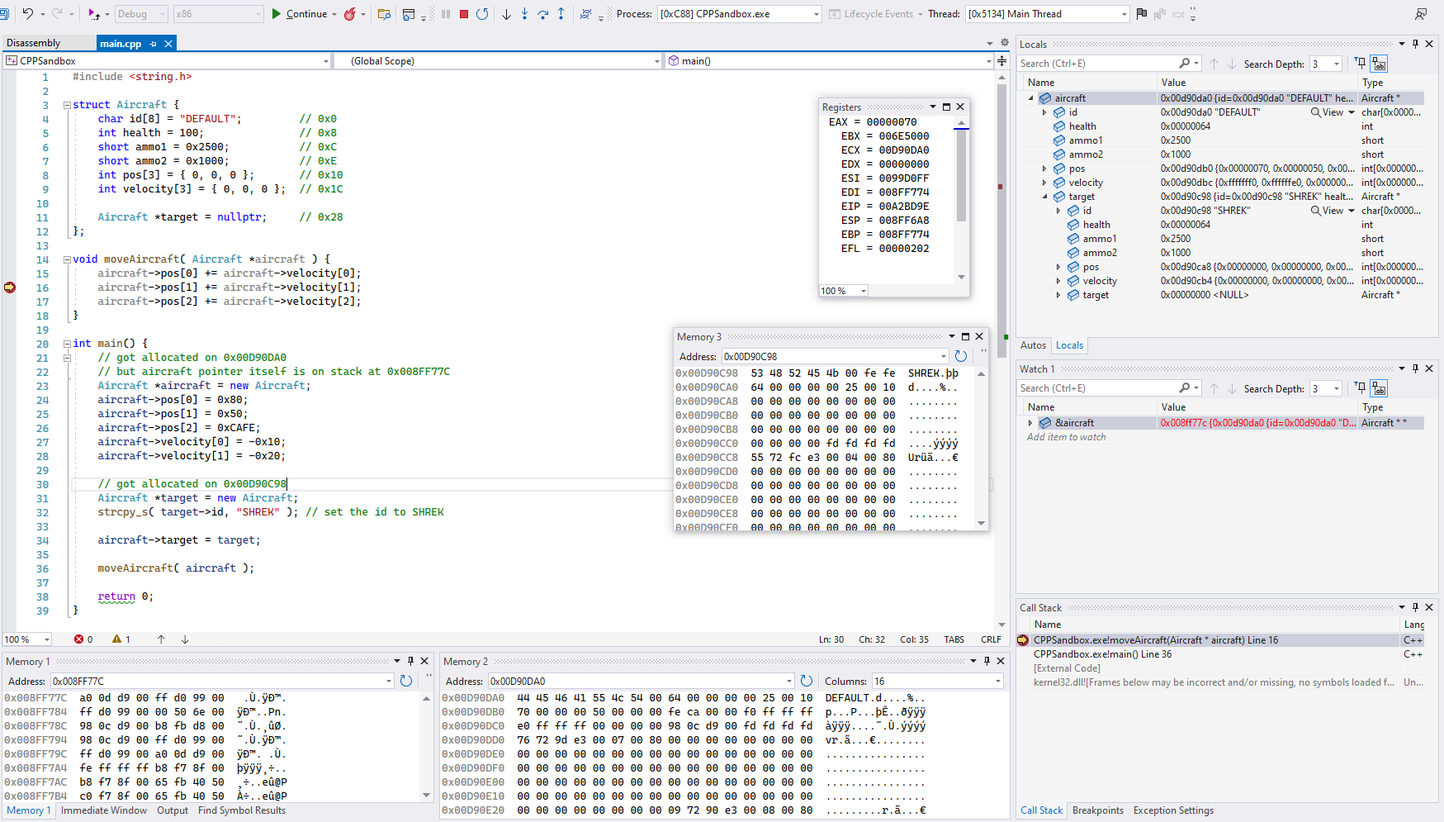
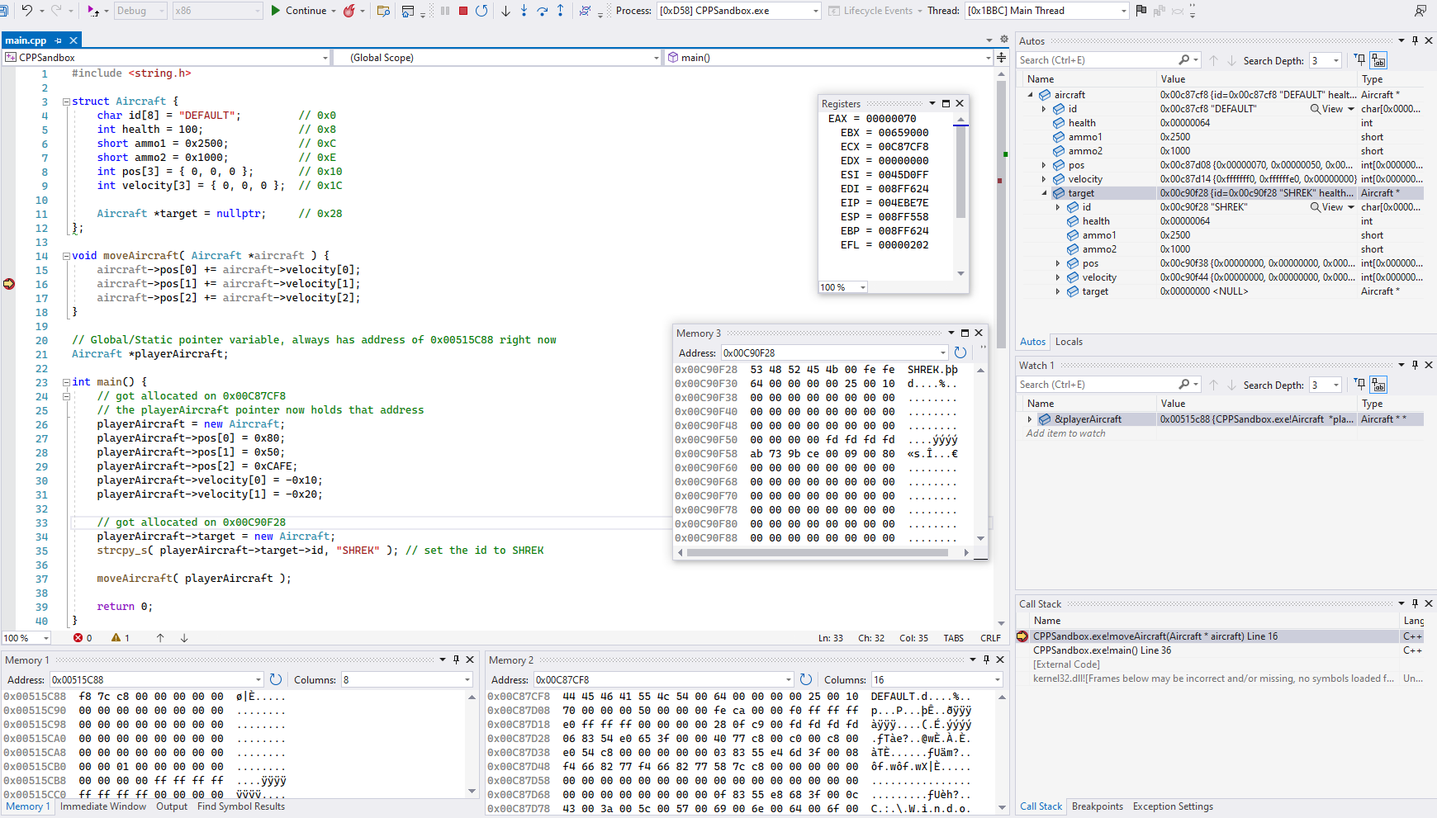
update tracking-down-playstation-pointers-using-debuggers-ghidra
Add Array example
Add Linked List example
Some editing, fixed typos

Changed region(s): [[0.0, 0.0, 1.0, 0.999], [0.5586, 0.333, 0.6207, 0.3633]]

diff --git a/frontend/notes/2024-03-05_tracking-down-playstation-pointers-using-debuggers-ghidra/_advanced_achievements.md b/frontend/notes/2024-03-05_tracking-down-playstation-pointers-using-debuggers-ghidra/_advanced_achievements.md
@@ -35,14 +35,14 @@ If you feel like it, check out this video: [Learn Reverse Engineering (for hacki
 
 ## **The path of least resistance**
 
-This section is mostly a reminder on how one could *atleast try* dealing with pointers without learning the complex stuff, in RAIntegration:
+This section is mostly a reminder on how one could *at least try* dealing with pointers without learning the complex stuff, in RAIntegration:
 
 1. Find the address of the value, write it down, make Save State 1
 2. Restart the game, or start at different level - whatever that will make the value appear at different address. Find the address of the value, write it down, make Save State 2
 3. Calculate the difference between the addresses. For example: if Save State 1 had value at `0x1717D8` and Save State 2 had value at `0x178CA4`, the difference is `0x178CA4 - 0x1717D8 = 0x74CC`
 4. Load Save State 1, make a new search for 32-bit (Aligned) values (my example is PSX so it takes that much)
 5. Load Save State 2, then do filter either by Last Value Plus or Last Value Minus, in my case I will have to go by `0x74CC` for Last Value Plus
-6. You get several candidates, one of them might be the pointer you seek, good luck
+6. You're likely to get several candidates, one of them might be the pointer you seek, good luck
     * If you had Save State 3 with 3rd address, it could further help to lower amount of candidates. In my case some addresses also flickered and I could get rid of them
     * I also recommend you pick addresses that result in lowest possible offsets
 
@@ -90,7 +90,7 @@ It doesn't matter much if you choose C or C++ here. I recommend these because yo
   * Understand that everything you have seen in Memory Inspector, any data at any address can be *interpreted* as those data types
   * Optional: learn bitwise operators and bitmasks if you encountered them when making achievements. If you ever had to make conditions that target Bit0, Bit1 and so on - those likely were part of bitmask. Reminder that this also requires understanding binary [[1]](https://www.programiz.com/c-programming/bitwise-operators) [[2]](https://www.learn-c.org/en/Bitmasks)
 * Learn basic control flow: conditional *if statements* and logical operators (AND/OR/NOT)
-* Learn loops: *for loop*, *while loop*
+* Learn loops: *for loop*, *while loop*, *do while loop*
 * Learn to define your own functions so the code can be reused
 * Learn what variable scope is: how it can be scoped locally to a function, locally to `{}` blocks, or scoped globally
 
@@ -163,18 +163,17 @@ I recommend you open the screenshot below in separate window so you can follow a
 
 I have put a breakpoint on line 16 and then ran the debugger, now I can go over small details:
 
-* Look at the line 23 that allocated a struct on the heap, if I look at the Locals window on top right, or hold the mouse over `aircraft` pointer, it shows me that it got allocated on heap at `0x00D90DA0`
-  * But commentary above also says that pointer itself is located on stack, I can easily check it's location on stack by adding `&aircraft` into the Watch window on middle right, which reveals address `0x008FF77C`
-  * Notice that this address is near tip of the stack, which is indicated by ESP register (CPU registers will be covered later, just note that it's indeed on stack)
-  * Notice that I can visit this address in one of the memory windows (Memory 1 on bottom left, similar to Memory Inspector), and the stored 4 bytes at that address represent `0x00D90DA0`, it's stored backwards, in little-endian, which is something you also might have noticed during *RAM digging*. In Visual Studio, those memory windows can be accessed in menu: Debug -> Windows -> Memory
-  * This example runs on Windows and I guess that's the reason why stack segment happens to be on lower address range compared to heap, which does not match [the diagram](https://static.javatpoint.com/cpages/images/memory-layout-in-c.png) you've seen before
-* Now I can follow `0x00D90DA0` in a different memory window (Memory 2) and start comparing what I see there with struct definition and what's shown in the Locals window
-  * Notice that values do match the default values of struct and also what I specified on lines 24-28, with the exception of pos[0] which was already modified by line 15
-  * Take note of pointer at `0x00D90DA0 + 0x28`, it was attached on line 34. This is pointer to the pointer situation. I can also follow that address: `0x00D90C98` in yet another memory window (Memory 3), and data found there also matches what Locals window show
+* Look at line 21 that defined a global pointer that would hold player's aircraft data. This is something that you'd be hunting for to define good pointer chains for achievements, because address of this pointer itself never changes
+  * I can check it's memory address by adding `&playerAircraft` into the Watch window on middle right, which reveals address `0x00515C88`
+  * Notice that restarting the program results in same address shown for `&playerAircraft`, which is expected for such global variable. It will likely change only if you recompile the program
+  * Notice that I can visit this address in one of the memory windows (Memory 1 on bottom left, similar to Memory Inspector), and the stored 4 bytes at that address represent `0x00C87CF8`. It's stored backwards, in little-endian, which is something you also might have noticed during *RAM digging*. In Visual Studio, those memory windows can be accessed in menu: Debug -> Windows -> Memory
+* Now I can follow `0x00C87CF8` in a different memory window (Memory 2) and start comparing what I see there with struct definition and what's shown in the Locals window
+  * Notice that values do match the default values of struct and also what I specified on lines 27-31, with the exception of pos[0] which was already modified by line 15
+  * Take note of pointer at `0x00C87CF8 + 0x28`, it was attached on line 34. This is pointer to the pointer situation. I can also follow that address: `0x00C90F28` in yet another memory window (Memory 3), and data found there also matches what Locals window show
 * <span id="negative-offset-remark">Notice that all offsets for the struct are positive, and regular programmers deal with such structs all the time, all with positive offsets. This is to explain why one shouldn't rely on negative offsets in the achievement code - it's merely something lucky that can work instead of being perfect solution that matches the original program</span>
 * If I press Step Over button, line 16 will get executed and debugger stops at line 17, the changes to pos[1] value will be seen in Locals and Memory 2 windows
-* If I were to press Step Out button on the toolbar at the top, remainder of moveAircraft function will be executed and debugger will stop at line 36 after executing the function, the changes to aircraft->pos will be seen in Locals and Memory 2 windows
-* To practice usage of Step In button on the toolbar at the top, I could put a breakpoint on Line 36, and check what happens when using Step In button compared to Step Over
+* If I were to press Step Out button on the toolbar at the top, remainder of moveAircraft function will be executed and debugger will stop at line 37 after executing the function, the changes to aircraft->pos will be seen in Locals and Memory 2 windows
+* To practice usage of Step In button on the toolbar at the top, I could put a breakpoint on Line 37, and check what happens when using Step In button compared to Step Over
 
 Here's the original code that you can copy paste if you wish:
 
@@ -198,20 +197,24 @@ void moveAircraft( Aircraft *aircraft ) {
   aircraft->pos[2] += aircraft->velocity[2];
 }
 
+
+Aircraft *playerAircraft;
+
 int main() {
-  Aircraft *aircraft = new Aircraft;
-  aircraft->pos[0] = 0x80;
-  aircraft->pos[1] = 0x50;
-  aircraft->pos[2] = 0xCAFE;
-  aircraft->velocity[0] = -0x10;
-  aircraft->velocity[1] = -0x20;
 
-  Aircraft *target = new Aircraft;
-  strcpy_s( target->id, "SHREK" ); // set the id to SHREK
 
-  aircraft->target = target;
+	playerAircraft = new Aircraft;
+	playerAircraft->pos[0] = 0x80;
+	playerAircraft->pos[1] = 0x50;
+	playerAircraft->pos[2] = 0xCAFE;
+	playerAircraft->velocity[0] = -0x10;
+	playerAircraft->velocity[1] = -0x20;
 
-  moveAircraft( aircraft );
+
+	playerAircraft->target = new Aircraft;
+	strcpy_s( playerAircraft->target->id, "SHREK" ); // set the id to SHREK
+
+	moveAircraft( playerAircraft );
 
   return 0;
 }
@@ -229,7 +232,7 @@ I already mentioned that machine code will be executed by CPU *it was compiled f
 
 The consoles you're developing achievements for may have rather distinct architectures. This blogpost has examples for Playstation consoles: PSX, PS2 and PSP, which at their core are [MIPS](https://en.wikipedia.org/wiki/MIPS_architecture).
 
-Even if disassembly output is more human-readable, it certainly isn't compared to C, atleast until you get used to actually reading it. What could be one line of C++ code may explode into several very trivial lines of assembly language. Countless amount of lines that do very trivial things, such as:
+Even if disassembly output is more human-readable, it certainly isn't compared to C, at least until you get used to actually reading it. What could be one line of C++ code may explode into several very trivial lines of assembly language. Countless amount of lines that do very trivial things, such as:
 
 * Read the RAM at specified address, store result in specified CPU register
 * Read values in CPU registers, do something like math, write the result into CPU register
@@ -295,7 +298,7 @@ Pointer [32-bit]
 ### **Debugger usage**
 
 1. Install [PCSX-Redux](https://github.com/grumpycoders/pcsx-redux) emulator, [Windows x64 builds are here](https://install.appcenter.ms/orgs/grumpycoders/apps/pcsx-redux-win64/distribution_groups/public)
-    * This emulator can be confusing compared to what most other people use for regular play, so instructions also inclde loading and running the game
+    * This emulator can be confusing compared to what most other people use for regular play, so instructions also include loading and running the game
     * Other choices of PSX emulators with debugger support are [no$psx](https://problemkaputt.de/psx.htm) which I found less intuitive. [pSX 1.13](https://www.emulator-zone.com/doc.php/psx/psx_em.html) also known as psxfin has debugger with terrible UI, [here's forum thread with it's usage](https://www.zophar.net/forums/index.php?threads/tutorial-using-a-debugger-to-figure-out-game-mechanics.13521/). There's [PCSX with Debugger](https://www.romhacking.net/utilities/267/). [Duckstation](https://www.duckstation.org/) has debugger in it, but at the moment of writing it's barebones and not recommended, hope it will become good eventually so you could run it together with RAIntegration
     * For some reason I had latest versions with GLFW integration [crash with this message](./pcsx-debugger/pcsx-redux-error.png), I understand the error but not why it happens. **Running with administrator rights** made it work, some time later running it without admin rights also didn't cause crash, I don't know why. It also still crashes when opening emulator settings without admin rights
 
@@ -485,7 +488,7 @@ Pointers to pointers is when it becomes less trivial to deal with. This is when 
 
 I'm dealing with PS2 now, it's still MIPS, but now with 64-bit and floating-point support. The instruction set is broader, but overall disassembly experience shouldn't be worse than PSX. Because of 64-bit support, register values can hold large amount of data, but in practice you will look at bottom quarter part of the register.
 
-![Bunch of huge register values in PCSX2 debubger, you will focus on rightmost part of these, ignore leftover value garbage on the left](./pcsx2-registers.png)
+![Bunch of huge register values in PCSX2 debugger, you will focus on rightmost part of these, ignore leftover value garbage on the left](./pcsx2-registers.png)
 
 Let's look into [Gran Turismo 4: Prologue](https://retroachievements.org/game/19283), one of the code notes allows to track player's current position during the race (it's part of HUD). That value ended up useful for checking if player won the race. This value is only one pointer deeper compared to PSX example:
 
@@ -561,7 +564,7 @@ This isn't easy to answer this time: this debugger lacks highlighting selected r
 
 ![After stepping out](./pcsx2-debugger-1/pcsx2-debugging-2.png)
 
-I try to scroll up to see if anything writes into `s2` - and notice `00304100 addiu s2, s1, 0x250` instruction, which means: calculate a sum of value in `s1` register and constant value of `0x250`, then store it in `s2` register. I set an Execute breakpoint on that instruction to look into value of `s1` register during that moment (I have to press *Run* button to make that breakpoint activate on next frame rendered).
+I try to scroll up to see if anything writes into `s2` - and notice `00304100 addiu s2, s1, 0x250` instruction, which means: calculate a sum of value in `s1` register and constant value of `0x250`, then store it in `s2` register. I set a break-on-execute breakpoint on that instruction to look into value of `s1` register during that moment (I have to press *Run* button to make that breakpoint activate on next frame rendered).
 
 ![](./pcsx2-debugger-1/pcsx2-debugging-3.png)
 
@@ -571,7 +574,7 @@ Next question: **where did value of `s1` and `0x1FCDF90` come from?** Scrolling 
 
 ![](./pcsx2-debugger-1/pcsx2-debugging-4.png)
 
-What's above me is `jalr v1` which is unfortunate (I'm worried that it might be called with different addresses from `v1`), and none of the registers have value of `0x1FCDF90` anymore. It doesn't hurt to try to double click the `jalr` instruction to set Execute breakpoint, disable all other breakpoints (they have checkbox for that in the list), and press Run at the top right of Debugger to see what happens.
+What's above me is `jalr v1` which is unfortunate (I'm worried that it might be called with different addresses from `v1`), and none of the registers have value of `0x1FCDF90` anymore. It doesn't hurt to try to double click the `jalr` instruction to set break-on-execute breakpoint, disable all other breakpoints (they have checkbox for that in the list), and press Run at the top right of Debugger to see what happens.
 
 ![](./pcsx2-debugger-1/pcsx2-debugging-5.png)
 
@@ -579,7 +582,7 @@ Fortunately, when that breakpoint activates, the register values are always the 
 
 ![](./pcsx2-debugger-1/pcsx2-debugging-6.png)
 
-There is an instruction `0x002F9D7C lw a2, 0x404(s0)`, if I put Execute breakpoint on that and check what happens to `a2` register - it's indeed getting the desired value `0x1FCDF90`, the `0x404(s0)` indicates this value comes from address `0x1FCA750 + 0x404`, next question: **where did value of `s0` and `0x1FCA750` come from?**
+There is an instruction `0x002F9D7C lw a2, 0x404(s0)`, if I put break-on-execute breakpoint on that and check what happens to `a2` register - it's indeed getting the desired value `0x1FCDF90`, the `0x404(s0)` indicates this value comes from address `0x1FCA750 + 0x404`, next question: **where did value of `s0` and `0x1FCA750` come from?**
 
 When I break on that instruction, it shows that `a0` also has same value, meaning it was an argument for the function I'm currently in, I should Step Out of function.
 
@@ -652,7 +655,7 @@ Aren't we supposed to avoid negative offsets, how come it's negative here?
 
 The [negative offset remark](#negative-offset-remark) was about *structures of data* from programmer's point of view. What's seen here got nothing to do with that. What *compiler* did and what code it produced ain't exactly for us to argue with, and it just so happened that it was convenient enough to put what seems like global variables below `0x00500000`, which *naturally* results in such offsets.
 
-You may wonder: if compiler knows better, why not have single instruction that would store the exact address into register? Answer lies within the fact that all MIPS instructions are 32-bit (4 bytes) long. The value `0x004FA8C4` itself needs atleast *three* bytes, so it just won't fit.
+You may wonder: if compiler knows better, why not have single instruction that would store the exact address into register? Answer lies within the fact that all MIPS instructions are 32-bit (4 bytes) long. The value `0x004FA8C4` itself needs at least *three* bytes, so it just won't fit.
 
 So the compiler is smart enough to calculate the final address with two instructions (ignore `jr ra`), and those two fit. Here's the screenshot from Ghidra disassembly, look into machine code on the left:
 
@@ -704,7 +707,7 @@ Assume I already tracked down the value for that displayed last lap time. I choo
 
 It shows an `0x40` offset to pointer stored in `s1`, next question: where did value of `0x1BE2CFC` in `s1` come from? Looking several instructions above, there's: `003B6A40 addiu s1, s0, 0x119C`. It relies on register value of `s0` so it's worth answering the question of where value of `s0` came from, too, which is right above: `003B6A38 daddu s0, a0, zero`.
 
-So by setting an Execute breakpoint at instruction `003B6A38` and crossing the finish line again, I see that register `a0` has value of `0x1BE1B60`, it will be copied to `s0` register. Then value of `0x1BE1B60 + 0x119C` will be set to `s1` register. What you should take note of, is that the pointer worth dealing with is not `0x1BE2CFC`, but `0x1BE1B60`, and entire offset for achievement code will be `0x119C + 0x40 = 0x11DC`, which matches the code note.
+So by setting a break-on-execute breakpoint at instruction `003B6A38` and crossing the finish line again, I see that register `a0` has value of `0x1BE1B60`, it will be copied to `s0` register. Then value of `0x1BE1B60 + 0x119C` will be set to `s1` register. What you should take note of, is that the pointer worth dealing with is not `0x1BE2CFC`, but `0x1BE1B60`, and entire offset for achievement code will be `0x119C + 0x40 = 0x11DC`, which matches the code note.
 
 ![](./pcsx2-debugger-2/pcsx2-debugging-1a.png)
 
@@ -780,7 +783,7 @@ This section assumes you've seen the [PSX example](#decompiler-usage) and are co
 
 ![](./pcsx2-decompiler-1/ghidra-analyze.png)
 
-Now instead of reading diassembly ourselves, let's see how Ghidra decompiled it instead by visiting previously seen instruction at `0x003B6A38`:
+Now instead of reading disassembly ourselves, let's see how Ghidra decompiled it instead by visiting previously seen instruction at `0x003B6A38`:
 
 ![](./pcsx2-decompiler-1/ghidra-decompiler-pcsx2-1.png)
 
@@ -837,7 +840,7 @@ For this marked `deep_1` function it's easy to check it's start of disassembly: 
 
 ![](./pcsx2-decompiler-1/ghidra-xref-1.png)
 
-Alternatively, you can Right Click on most things in both Decompiler and Diassembly, to select References - Find References to *whatever*. This shows a dialog with same lone call.
+Alternatively, you can Right Click on most things in both Decompiler and Disassembly, to select References - Find References to *whatever*. This shows a dialog with same lone call.
 
 ![](./pcsx2-decompiler-1/ghidra-xref-2.png)
 
@@ -847,7 +850,7 @@ After following the call, I immediately renamed the function into `deep_2_003c0c
 
 ![](./pcsx2-decompiler-1/ghidra-decompiler-pcsx2-3.png)
 
-The previously seen `0x11DC` offset depended on `param_1` passed to `deep_1`, and here it's stored in `pcVar1` on line 9. The C code that calculates value of `pcVar1` is hard to read because of nested derefences, but you can recognize the previously seen offsets too. It's possible to make more readable if I write it like this:
+The previously seen `0x11DC` offset depended on `param_1` passed to `deep_1`, and here it's stored in `pcVar1` on line 9. The C code that calculates value of `pcVar1` is hard to read because of nested dereferences, but you can recognize the previously seen offsets too. It's possible to make more readable if I write it like this:
 
 ```
 pcVar1 = *(char **)(
@@ -1074,6 +1077,162 @@ For now, let's set same kind of breakpoint that was done in PPSSPP previously: b
 Just like before, unpausing the game and letting the score increase will make breakpoint activate. You'll have access to both disassembly of memory and original executable, with decompiled code that was already shown before. The buttons to step through the instructions can be found on toolbar above, just like in previously seen debuggers.
 
 ![](./ppsspp-decompiler-2/ghidra-debugger-4.png)
+
+## **Pointer to array of pointers, PSX game, PCSX-Redux**
+
+Games often have multiple instances of something: multiple enemies, multiple competitors, multiple score tables. Multiple of anything can be stored inside arrays which you should be familiar with from programming basics.
+
+Let's continue from [Ace Combat 3 example](#pointer-psx-game-pcsx-redux) and try to find out where health value of some aircraft originates from. On screenshot below I pursue some craft, I want to know how to get it's health value and be able to do it for all the other aircraft during the mission.
+
+![](./ace3-tgt.jpg)
+
+### **Debugger usage**
+
+I will not go into detail of tracking down the health value using Memory Observer. The value for that specific aircraft on screenshot above is 16-bit signed integer located at `0x80140126`, here's the code I landed on after setting a break-on-write breakpoint at that address and attempting to damage the aircraft:
+
+![](./pcsx-debugger-2/pcsx-debugger-1.jpg)
+
+The health is stored at `0x4e` offset to `0x801400d8`. Instead of skimming through too much code above to spot what exactly set that address in `s0` register, I just search for original pointer in memory:
+
+![](./pcsx-debugger-2/pcsx-memory-search-1.jpg)
+![](./pcsx-debugger-2/pcsx-memory-search-1a.jpg)
+
+I get two candidates: `0x8013fe28` and `0x80142ea4`. If I follow `0x8013fe28` address in Memory Editor, I see many pointers grouped together and can immediately assume they're part of an array - they all look similar with each 4th byte being `0x80` and you can also notice how the addresses increase if you read them left to right. Wish I could prove where the array begins using the code, for that I will set a break-on-read breakpoint for found pointer at address `0x8013fe28`, this is the code I landed on:
+
+![](./pcsx-debugger-2/pcsx-debugger-2.jpg)
+
+Relevant code was fortunate to be grouped together: `0x8013fe28` comes straight from `t1` register, which depends on values from registers of `t0` and `a2`. Looking at `t0` - it originates from `gp` register, therefore search ends here. `gp` register value is not pictured, it's `0x800bcb74`.
+
+`0x800bcb74 + 0x02e8 = 0x800bce5c` and this address points to the start of the array at `0x8013fe14`. It's important to mention that instruction I originally broke to at `0x8003813c` is actually part of loop, unfortunately this debugger doesn't make it obvious that some code below can jump back to same instruction. If I put a break-on-execute breakpoint on that instruction instead of break-on-read and keep pressing *Resume*, I can notice that `a2` register keeps increasing by 4 with every break and eventually starting over, implying iteration and therefore implying dealing with arrays. Do be aware of such moments so you can come up with correct conclusions.
+
+### **Decompiler usage**
+
+Now checking the same first instruction that I broke into in Ghidra drops me inside middle of a rather big function:
+
+![](./pcsx-decompiler-2/ghidra-decompiler-pcsx-1.jpg)
+
+To make it more easy to find all usages of `puVar5`, I can highlight it by Right Clicking -> Secondary Highlight -> Set Highlight. There's also regular Highlights but they disappear if you click anywhere else after.
+
+![](./pcsx-decompiler-2/ghidra-highlight.jpg)
+
+I have already set `gp` register value to `0x800bcb74`, here's the screenshots of top and bottom of the function:
+
+![](./pcsx-decompiler-2/ghidra-decompiler-pcsx-2.jpg)
+![](./pcsx-decompiler-2/ghidra-decompiler-pcsx-2a.jpg)
+
+* Scrolling up reveals `PTR_PTR_DAT_800bce5c` right away, which has pointer to array of pointers [as it was seen](./pcsx-debugger-2/pcsx-debugger-2.jpg) in previous Debugger usage section
+* The function starts with the `do {` block and has correspondent `} while (true)` at the bottom
+* Loop stops once `iVar7` reaches the value of `0x40`, given the `if (0x3f < iVar7)` condition. `iVar7` starts at value of 2 (line 15) and only increases by 1 (line 188)
+* Take note of `iVar9` - it's increased by 4 on line 189 and it's added to the pointer held at `PTR_PTR_DAT_800bce5c` on line 19, that naturally makes `puVar5` hold each array element that was [seen there](./pcsx-debugger-2/pcsx-memory-search-1a.jpg)
+* No doubt anymore, this code iterates array, start of which is held by `PTR_PTR_DAT_800bce5c`. Ideally this decompiler would present it as *for loop*, maybe it's possible to give enough hints to Ghidra to achieve such output, maybe it's less trivial than I think
+
+So given all that, just by decompiling one function you'd piece everything together and start using the `0xbce5c` in the achievement code. Fortunately the way this game works, each array element holds data about exactly same aircraft during the specific mission, so achievement code is allowed to pick very specific array elements.
+
+## **Linked list, PS2 game, PCSX2**
+
+I'm not going to explain Linked List data structure, it was suggested you'd learn it on your own in Programming basics section, [here's a reminder](https://www.programiz.com/dsa/linked-list) if you need it. You should be aware while the core idea of linked list stays the same, the contents of each node may be vastly different between the games. Sometimes linked list elements can include pointer to previous element, or be circular - the final element will hold pointer to the first element of the list.
+
+This section will explore how linked list may get recognized in Debugger, then decompiled code traversing it will be explored.
+
+For all achievement sets I developed for RetroAchievements, I personally never encountered linked lists, yet other people do sometimes and they tend to hold really weird stuff in them that doesn't necessary make much sense. For example I've looked into [Tony Hawk's Underground 2](https://retroachievements.org/game/19804), there are achievements that need to track *Goal completion*, and state for those goals is stored in linked list of all things. One of the achievements needs to be able to access all goal data to check if they are all completed.
+
+```question
+Is there a rationale behind such linked lists beyond fast element insert and removal?
+
+I don't know why Goals are stored like that. The instincts cynically tell me developers not caring and just picking the option. Then thinking about it again - maybe developers needed a dynamic container that's not `std::vector`, which potential growth would lead to reallocations and that's not desirable given limited amount of PS2 RAM? This also allows to combat memory fragmentation because new list elements could just fill free memory holes, instead of entire array potentially having no space left for reallocation, which may sound good. You could also hold the pointer to linked list element and not be worried that it becomes invalid, because there would be no potential reallocations compared to `std::vector` if it decides to grow.
+
+I'm not familiar with game and I'd expect there to be same amount of Goals per level, which still leaves me with the feeling that linked list was unnecessary.
+
+Overall I wish some veteran developer would answer this by remembering their practices.
+```
+
+![List of Goals for the Tutorial, all of them must be completed for achievement](./tonyu2-goals.jpg)
+
+### **Debugger usage**
+
+Let's assume I'm on Goal no. 3 *Grind the rail*, and I already found out where relevant completion flags are in memory -  at `0x016d8d60`. Normally I'd probably do a break-on-write breakpoint and complete the goal, but break-on-read results in better demonstration:
+
+![](./pcsx2-debugger-3/pcsx2-debugging-1.png)
+
+Sometimes you're lucky and PCSX2 Debugger can identify and highlight individual functions, which happened here. There's an `0x70` offset to `0x16D8CF0`, let's not bother checking the code and just memory search that address:
+
+![](./pcsx2-debugger-3/pcsx2-debugging-1a.png)
+
+While the `0xB9665C` and `0xB96660` addresses look promising because they're both much lower and `sp` register is `01FFF970`, if I were to try them out while different goals are active - they would hold a different address. Turns out they hold a pointer to current goal, but the achievement code would have to check the state of *all goals*, so those two candidates are useless. If you scan Memory with your own eyes in region around `0xB9665C` - it's not like there's an array or anything like that either.
+
+This leaves `0x16D8DF4` for investigation. There's no point checking `0x16D8CF4` because it's only 4 bytes after originally found `0x16D8CF0`, remember the `0x70` offset? I can assume the structure is at least 0x70 bytes long, no point checking the pointer that leads to itself.
+
+I try setting break-on-read breakpoint for `0x016D8DF4`, which leads to this code:
+
+![](./pcsx2-debugger-3/pcsx2-debugging-2.png)
+
+There's [Branch Delay](#branch-delays) and `0x4` offset to `0x16D8DF0`, let's memory search that address:
+
+![](./pcsx2-debugger-3/pcsx2-debugging-2a.png)
+
+The `0xB96644` didn't previously appear, but if you were to try it out for achievement logic right now, you'd find you can't rely on it. This leaves only a candidate of `0x016D8CD8`, I try setting break-on-read breakpoint for that address:
+
+![](./pcsx2-debugger-3/pcsx2-debugging-3.png)
+
+`0x8` offset to `0x016D8CD0`, memory searching that address reveals:
+
+![](./pcsx2-debugger-3/pcsx2-debugging-3a.png)
+
+Which looks very similar to past result, and if I set a break-on-read breakpoint for `0x016D8BB8`, I will land on exactly same code as shown above - which is good evidence to suspect a linked list. Think about it: same code, same offsets, but pointer values in register change - the code you'd write for traversing linked list would give similar impressions, the only difference is I'm traversing backwards.
+
+It's worth setting break-on-execute breakpoint on that instruction I landed on and notice that value at `v0` keeps increasing by 1 each time I press *Run*, with pointer value also increasing, implying iteration. Considering there was no array found previously, it's also evidence for linked lists.
+
+And yet linked list has to originate somewhere. I can choose to keep traversing pointers backwards, and given that I only decided to research all this starting from Goal 3, I'm lucky to get only to one candidate soon:
+
+![](./pcsx2-debugger-3/pcsx2-debugging-3b.png)
+
+This address matches the one that was in the code note and used for achievements. Traditionally I validated these in previous examples, but it turned out to be tough for this one, I will try to validate it using Decompiler later.
+
+So the address to first node of Linked list is held at `0xB99663C`. If you wish to go to next node - you need to check an offset of `0x8` of node you're currently at and follow the pointer. You'd be doing that until you arrive to node representing the Goal you're interested in. Once that's done - it's about following previously found `0x4` and `0x70` offsets:
+
+```
+AddAddress 32-bit 0xb9663c
+AddAddress 32-bit 0x8
+AddAddress 32-bit 0x8
+AddAddress 32-bit 0x4
+Mem        Bit2   0x70      .. conditions ..
+```
+
+### **Decompiler usage**
+
+This section assumes you've seen previous example of [using Ghidra with PCSX2](#decompiler-usage-1). The RAM from Debugger section above was already dumped and analyzed in new Ghidra project. Let's research starting from [initially seen code](./pcsx2-debugger-3/pcsx2-debugging-1.png):
+
+![](./pcsx2-decompiler-3/ghidra-decompiler-pcsx-1.png)
+
+Ghidra did not analyze this at all, not a problem. Disassembling that address and then defining a Function emits code that matches disassembly seen in Debugger:
+
+![](./pcsx2-decompiler-3/ghidra-decompiler-pcsx-1a.png)
+
+Same previously seen `0x70` offset. Unfortunately there are no XREFs to this function so I'd have to revisit debugger to figure out what calls this function, but for some reason unknown to me, debugger doesn't show anything in the call stack, meaning I have to either check `ra` register value (return address), or keep pressing *Step Over* until I reach `jr ra` instruction. If it gets tedious to press Step Over many times in PCSX2 debugger, you can Right Click `jr ra` instruction -> Run to Cursor. All good debuggers have such functionality.
+
+I find out that instruction at `0x2a94e8` called the function shown above. Here's the decompiler output near that call:
+
+![](./pcsx2-decompiler-3/ghidra-decompiler-pcsx-2.png)
+
+There's `while (true)` present (line 14), and this loop ends only when some counter named `local_30` gets big enough (lines 17 and 35), implying there's iteration involved. If you look good enough at line 20 with indirect call to previously shown function, the function argument depends on `iVar1` which is actually `iVar2` one line above and `iVar2` comes from `FUN_002b07f0` [portions of which](./pcsx2-debugger-3/pcsx2-debugging-3.png) have already been seen, let's check how those portions got decompiled:
+
+![](./pcsx2-decompiler-3/ghidra-decompiler-pcsx-3.png)
+
+Another loop, this time it's *do while*.
+
+Line 25 is crucial here - pointer at `param1 + 0x10` is followed, and what's located `0x8` bytes after is written to `param1 + 0x10` itself, and it just keeps happening because of *do while* loop. You should figure the resemblance to how you could write code for iterating linked list, because you'd have some pointer variable storing a node you're currently at.
+
+If you were to revisit debugger, you could notice that `param_1 + 0x10` results in `0xB96644` - value of which was seen in Memory Search previously and was discarded as unreliable, you can now see why: it acts as intermediate variable for *traversing* linked list nodes.
+
+So the `0x70` was seen in the decompiled code for `FUN_002b2528`, the `0x4` offset can be seen on line 16 of `FUN_002a94a8` - which becomes part of `iVar4` which is `param_1` for `FUN_002b07f0`. The `0x8` offsets for traversing linked list are at Line 25 of `FUN_002b07f0`. The only question is to figure where `param_1` for `FUN_002a94a8` originates from and I mentioned I'd try to figure that out using Ghidra.
+
+There are many XREFs for `FUN_002a94a8` so I have to revisit debugger and check what called that function, which happened to be `FUN_002ad830`:
+
+![](./pcsx2-decompiler-3/ghidra-decompiler-pcsx-4.png)
+![](./pcsx2-decompiler-3/ghidra-decompiler-pcsx-4a.png)
+![](./pcsx2-decompiler-3/ghidra-decompiler-pcsx-4b.png)
+
+Quite simple, there's pointer stored at `0x3fc678`, it has value of `0xB96020`. Offset of `0x39c` to that address leads to `0xB96020 + 0x39c = 0xB963BC`. That address holds another pointer, and it leads to `0xB96630`, which is very close to what achievement code have been using as a base.
 
 ## **Appendix**
 
